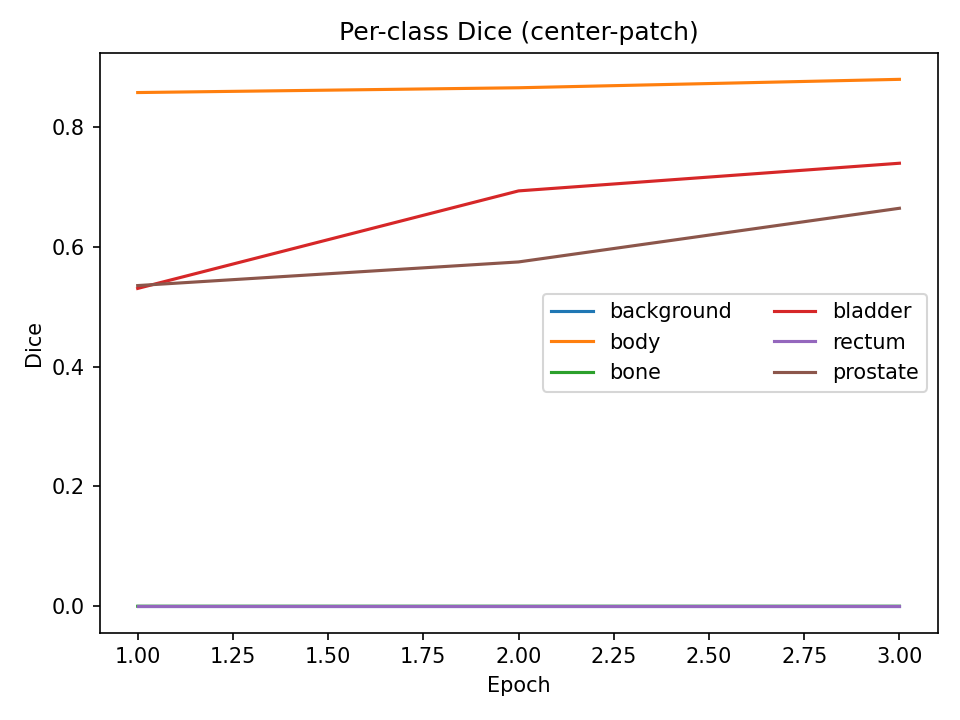
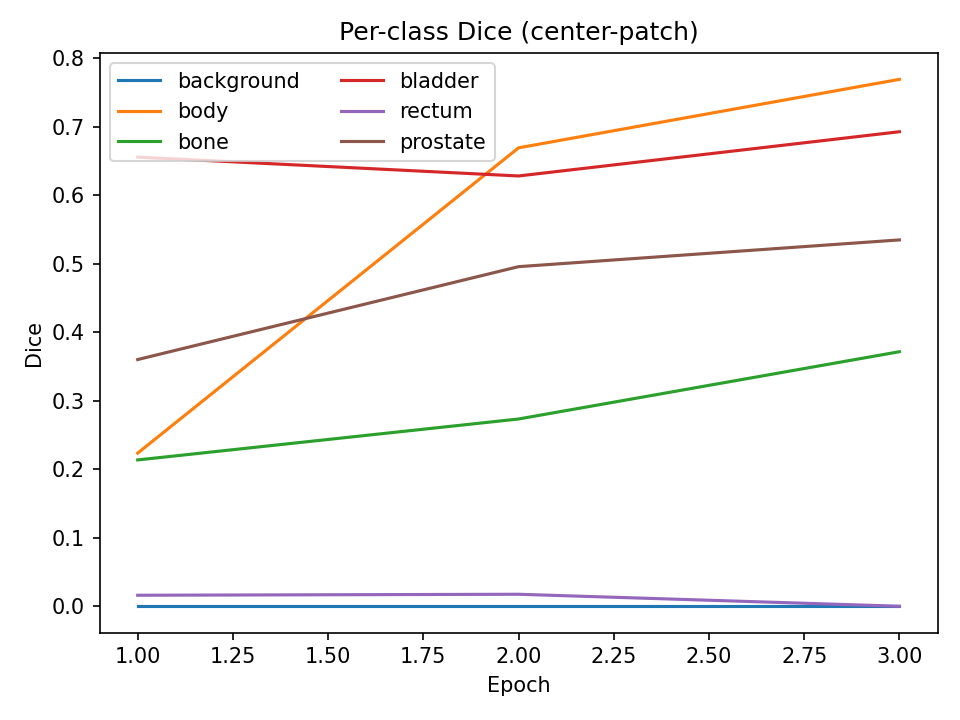
train w[2] *= 1.5   w[3] *= 1.5    w[4] *= 4.0   w[5] *= 4.0   w[0] *= 0.5

diff --git a/recognition/prostate3d_Luyi_Ying_48360591/train.py b/recognition/prostate3d_Luyi_Ying_48360591/train.py
@@ -24,6 +24,7 @@ python recognition\prostate3d_Luyi_Ying_48360591\train.py `
   --accum 1 `
   --amp
 
+  base: 8/16
   
 python recognition\prostate3d_Luyi_Ying_48360591\train.py `
   --data_root "D:\document\UQ\4COMP3710\A3\data" `
@@ -37,8 +38,11 @@ python recognition\prostate3d_Luyi_Ying_48360591\train.py `
   --base 16 `
   --patch 64 64 64 `
   --accum 1 `
-  --val_overlap 32 `
+  --lr 1e-3 `
+  --fullval_every 1 `
+  --val_patch 64 64 64 --val_overlap 32 `
   --amp
+
 """
 import argparse
 from pathlib import Path
@@ -63,14 +67,23 @@ def _starts(L, P, O):
     if s[-1] != L - P: s.append(L - P)
     return s
 
+def _blend_weight(pz, py, px):
+    # 3D Hanning 窗，中心权重大、边缘小，减少拼接缝
+    wz = np.hanning(pz)[:, None, None]
+    wy = np.hanning(py)[None, :, None]
+    wx = np.hanning(px)[None, None, :]
+    w = (wz * wy * wx).astype(np.float32)
+    w /= (w.max() + 1e-8)
+    return w  # (pz,py,px)
+
 @torch.no_grad()
 def sliding_window_predict_logits(model, img, num_classes, patch, overlap, device, amp=True):
-    # img: (B=1, C=1, Z,Y,X) on device
     _, _, Z, Y, X = img.shape
     pz, py, px = patch
     sz, sy, sx = _starts(Z,pz,overlap), _starts(Y,py,overlap), _starts(X,px,overlap)
     probs_sum = np.zeros((num_classes, Z, Y, X), dtype=np.float32)
     count_map = np.zeros((Z, Y, X), dtype=np.float32)
+    w_patch = _blend_weight(pz, py, px)
 
     autocast = torch.cuda.amp.autocast if device.type=="cuda" else torch.cpu.amp.autocast
     model.eval()
@@ -79,13 +92,32 @@ def sliding_window_predict_logits(model, img, num_classes, patch, overlap, devic
             for x0 in sx:
                 tile = img[:, :, z0:z0+pz, y0:y0+py, x0:x0+px]
                 with autocast(enabled=amp):
-                    logits = model(tile)                  # (1,C,*,*,*)
-                    probs  = F.softmax(logits, dim=1)[0].float().cpu().numpy()
+                    logits = model(tile)
+                    probs  = F.softmax(logits, dim=1)[0].float().cpu().numpy()  # (C,pz,py,px)
                 cz, cy, cx = probs.shape[1:]
-                probs_sum[:, z0:z0+cz, y0:y0+cy, x0:x0+cx] += probs
-                count_map[z0:z0+cz, y0:y0+cy, x0:x0+cx] += 1
+                w = w_patch[:cz, :cy, :cx]
+                probs_sum[:, z0:z0+cz, y0:y0+cy, x0:x0+cx] += probs[:, :cz, :cy, :cx] * w[None]
+                count_map[z0:z0+cz, y0:y0+cy, x0:x0+cx] += w
     probs = probs_sum / np.maximum(count_map[None,...], 1e-6)
-    return probs  # (C,Z,Y,X)
+    return probs
+
+def compute_ce_weights(ds, num_classes):
+    counts = np.zeros(num_classes, dtype=np.float64)
+    for i in range(len(ds)):
+        lab = ds[i]["label"].numpy().ravel()
+        u, c = np.unique(lab, return_counts=True)
+        for ui, ci in zip(u, c):
+            if 0 <= ui < num_classes: counts[ui] += ci
+    freq = counts / counts.sum()
+    w = 1.0 / np.log(1.1 + freq)         # “有效样本”式权重，稳定
+    w[2] *= 1.5 
+    w[3] *= 1.5                         # bladder 适度上调
+    w[4] *= 4.0                          # rectum 强上调
+    w[5] *= 4.0                         # prostate 强上调
+    w[0] *= 0.5                          # 强烈下调背景
+    # 归一到均值=1，避免极端权重数值不稳
+    w = w / (w.mean() + 1e-8)
+    return torch.tensor(w, dtype=torch.float32)
 
 # (For val dataloader, calculate per-class Dice)
 def full_volume_validation(model, dl_val, device, num_classes=6, patch=(64,64,64), overlap=16, amp=True):
@@ -98,6 +130,8 @@ def full_volume_validation(model, dl_val, device, num_classes=6, patch=(64,64,64
             probs = sliding_window_predict_logits(model, img, num_classes, patch, overlap, device, amp)
             pred  = probs.argmax(0)              # numpy (Z,Y,X)
             lab_np = lab[0].cpu().numpy()        # numpy (Z,Y,X)
+            hist = np.bincount(pred.ravel(), minlength=num_classes) / pred.size
+            print(" [FULLVAL] pred dist:", dict((CLASS_NAMES[i], float(hist[i])) for i in range(num_classes)))
 
             per_c = []
             for c in range(num_classes):
@@ -215,7 +249,7 @@ def main(args):
     # 损失 + 优化器（baseline：CE，可日后换 DiceLoss/组合以提升）
     #criterion = nn.CrossEntropyLoss()
     # class weights (0=bg, 1=body, 2=bone, 3=bladder, 4=rectum, 5=prostate)
-    ce_weights = torch.tensor([0.05, 1.0, 1.2, 2.5, 3.0, 4.0], dtype=torch.float32, device=device)
+    ce_weights = compute_ce_weights(ds_train, NUM_CLASSES).to(device)
     criterion = nn.CrossEntropyLoss(weight=ce_weights)
 
     optimizer = optim.AdamW(model.parameters(), lr=args.lr)
@@ -262,8 +296,18 @@ def main(args):
             img = batch["image"].to(device)   # (B,1,Z,Y,X) 这里 B=1
             lab = batch["label"].to(device)   # (B,Z,Y,X)
 
-            # 从整幅里裁一个 patch
-            img_c, lab_c = random_crop_3d_balanced(img, lab, patch, focus=(2,3,4,5), pos_rate=0.8)
+            # 从整幅里裁一个 patch, pos_rate:命中比例
+            r = torch.rand(()).item()
+            if r < 0.80:
+                # 80%：器官中心
+                img_c, lab_c = random_crop_3d_balanced(img, lab, patch, focus=(2,3,4,5), pos_rate=1.0)
+            elif r < 0.85:
+                # 15%：身体中心
+                img_c, lab_c = random_crop_3d_balanced(img, lab, patch, focus=(1,), pos_rate=1.0)
+            else:
+                # 5%：背景中心（纯负样本），强迫模型学“不是器官”的外观
+                img_c, lab_c = random_crop_3d_balanced(img, lab, patch, focus=(0,), pos_rate=1.0)
+
 
 
             # ----- 轻量增强light aug -----
@@ -285,10 +329,19 @@ def main(args):
             with torch.cuda.amp.autocast(enabled=args.amp):
                 logits = model(img_c)
                 #ce = F.cross_entropy(logits, lab_c)
-                ce = criterion(logits, lab_c)  # 用上面的加权 CE
-                dice_w = torch.tensor([0.0, 1.0, 1.2, 2.0, 2.5, 3.5], dtype=torch.float32, device=device)  # 背景权重0
-                dl = dice_loss_multiclass(logits, lab_c, class_weights=dice_w, drop_bg=True)
-                loss = ce + 1.0*dl
+                ce = criterion(logits, lab_c)
+
+                # Dice 也纳入背景，但给个较小权重，避免全涂背景
+                dice_w = ce_weights.clone()
+                dice_w[0] = 0.2                          # 背景也参与 Dice，但权重很小
+                dl = dice_loss_multiclass(
+                    logits, lab_c,
+                    class_weights=dice_w,
+                    drop_bg=False                         # 关键：不要丢弃背景
+                )
+
+                # 让 CE 更主导，Dice 辅助对齐小器官
+                loss = 0.7*ce + 0.3*dl
             loss = loss / accum
             # 记录原始 ce/dice/total（注意：这里记录的是未除以accum前的数）
             sum_ce  += ce.item()

diff --git a/recognition/prostate3d_Luyi_Ying_48360591/README.md b/recognition/prostate3d_Luyi_Ying_48360591/README.md
@@ -96,6 +96,9 @@ In each epoch, only one random patch is taken from each sample. In the next epoc
   * Add category weights to CE
   * Dice is excluded from the background, and small organs are given greater weight.
   * Corrected "Union sampling" → "Class-based equalization sampling"
+**improved 4**
+* Sliding window inference weighted fusion (resolving gaps/joining false negatives)
+* Automatically calculate category weights
 
 **visualize**:
 * training_losses.png
